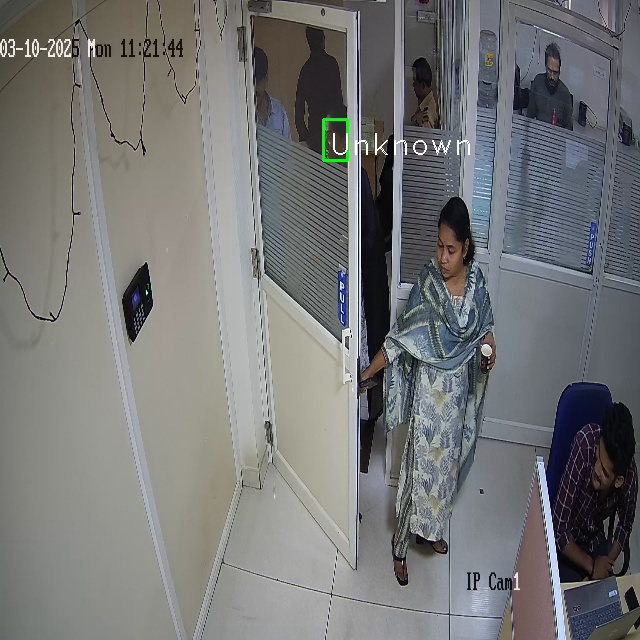
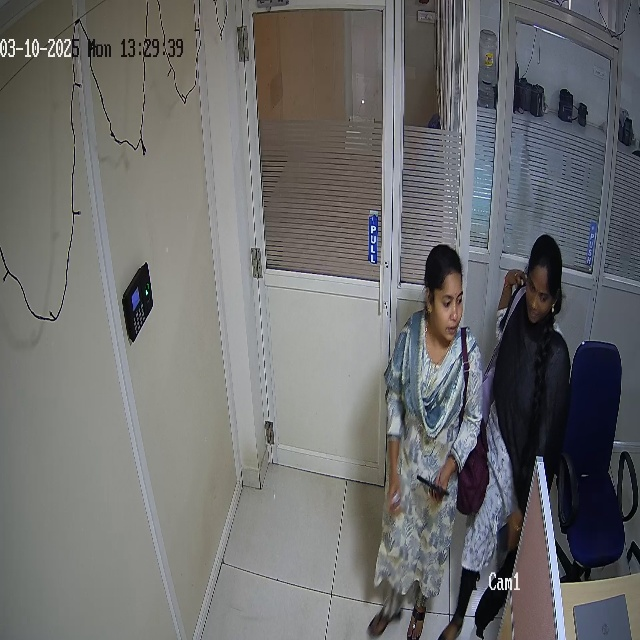
.env file added

diff --git a/API/frameskipcamera.py b/API/frameskipcamera.py
@@ -566,6 +566,10 @@ import numpy as np
 from insightface.app import FaceAnalysis
 # import onnxruntime
 from pymongo import MongoClient
+from dotenv import load_dotenv
+ 
+load_dotenv()
+
 
 # MongoDB Connection (Load embeddings once)
 MONGO_URI = os.getenv('db_url')
@@ -573,18 +577,18 @@ client = MongoClient(MONGO_URI)
 db = client["Face_Recognitions"]
 collection = db["face_embeddings"]
 
-known_face_embeddings = []
-known_face_names = []
+# known_face_embeddings = []
+# known_face_names = []
 
-stored_faces_count = collection.count_documents({})
-if stored_faces_count > 0:
-    for face in collection.find({}):
-        known_face_names.append(face["name"])
-        known_face_embeddings.append(np.array(face["embedding"]))
-    print(f"Loaded {stored_faces_count} face embeddings from MongoDB.")
-else:
-    print("No stored embeddings found in MongoDB.")
-    exit()
+# stored_faces_count = collection.count_documents({})
+# if stored_faces_count > 0:
+#     for face in collection.find({}):
+#         known_face_names.append(face["name"])
+#         known_face_embeddings.append(np.array(face["embedding"]))
+#     print(f"Loaded {stored_faces_count} face embeddings from MongoDB.")
+# else:
+#     print("No stored embeddings found in MongoDB.")
+#     exit()
 
 # Video Capture Class with Threading
 class VideoCapture:
@@ -626,6 +630,19 @@ video_capture = VideoCapture(rtsp_url)
 # Initialize ArcFace Model with ONNX Runtime
 app = FaceAnalysis(name='buffalo_l', providers=['CPUExecutionProvider'])  #'CUDAExecutionProvider'
 app.prepare(ctx_id=0, det_size=(640, 640))  # Smaller size for faster processing
+
+known_face_embeddings = []
+known_face_names = []
+
+stored_faces_count = collection.count_documents({})
+if stored_faces_count > 0:
+    for face in collection.find({}):
+        known_face_names.append(face["name"])
+        known_face_embeddings.append(np.array(face["embedding"]))
+    print(f"Loaded {stored_faces_count} face embeddings from MongoDB.")
+else:
+    print("No stored embeddings found in MongoDB.")
+    exit()
 
 # Streamlit UI
 st.title("Real-time Face Recognition")
